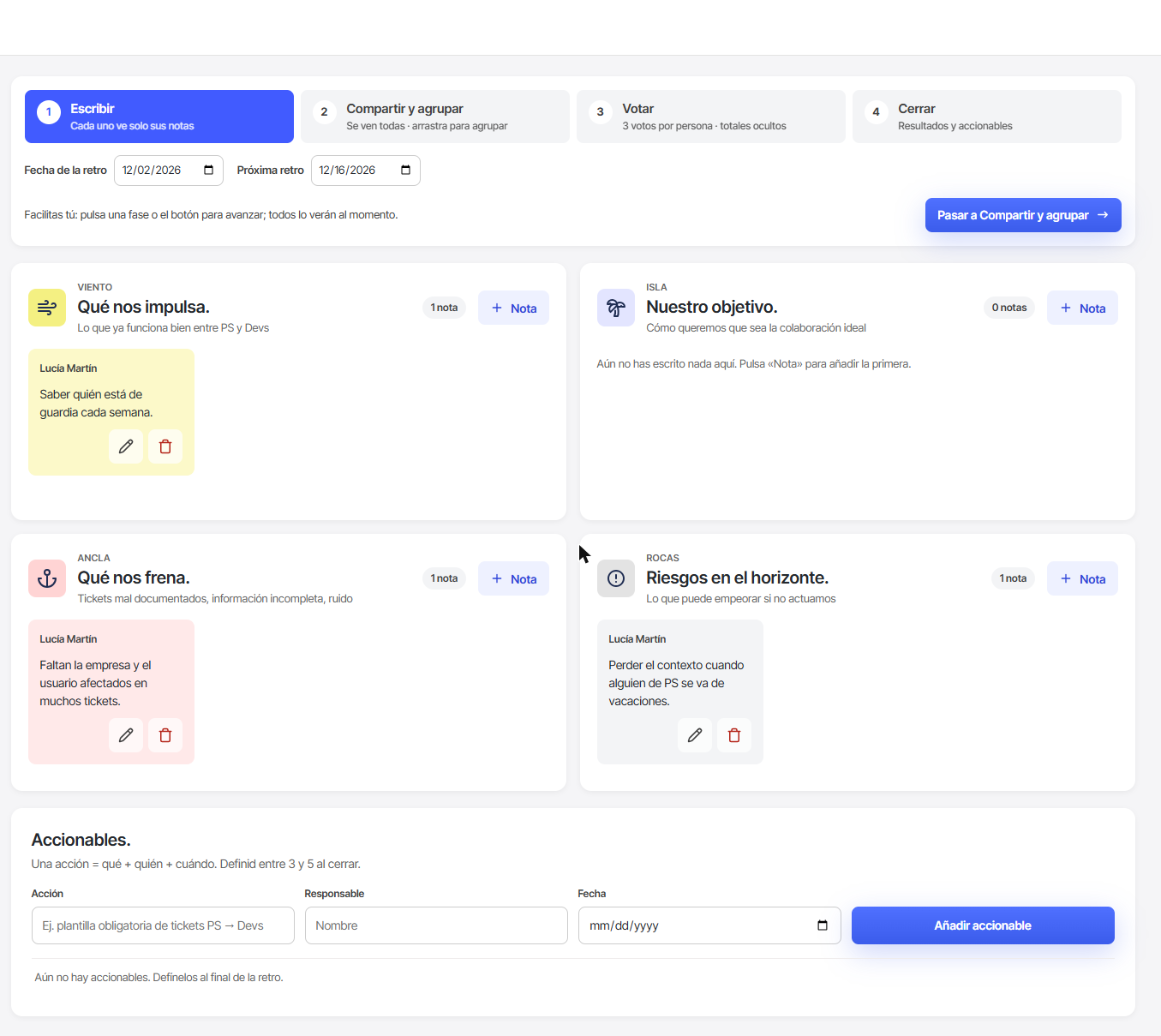
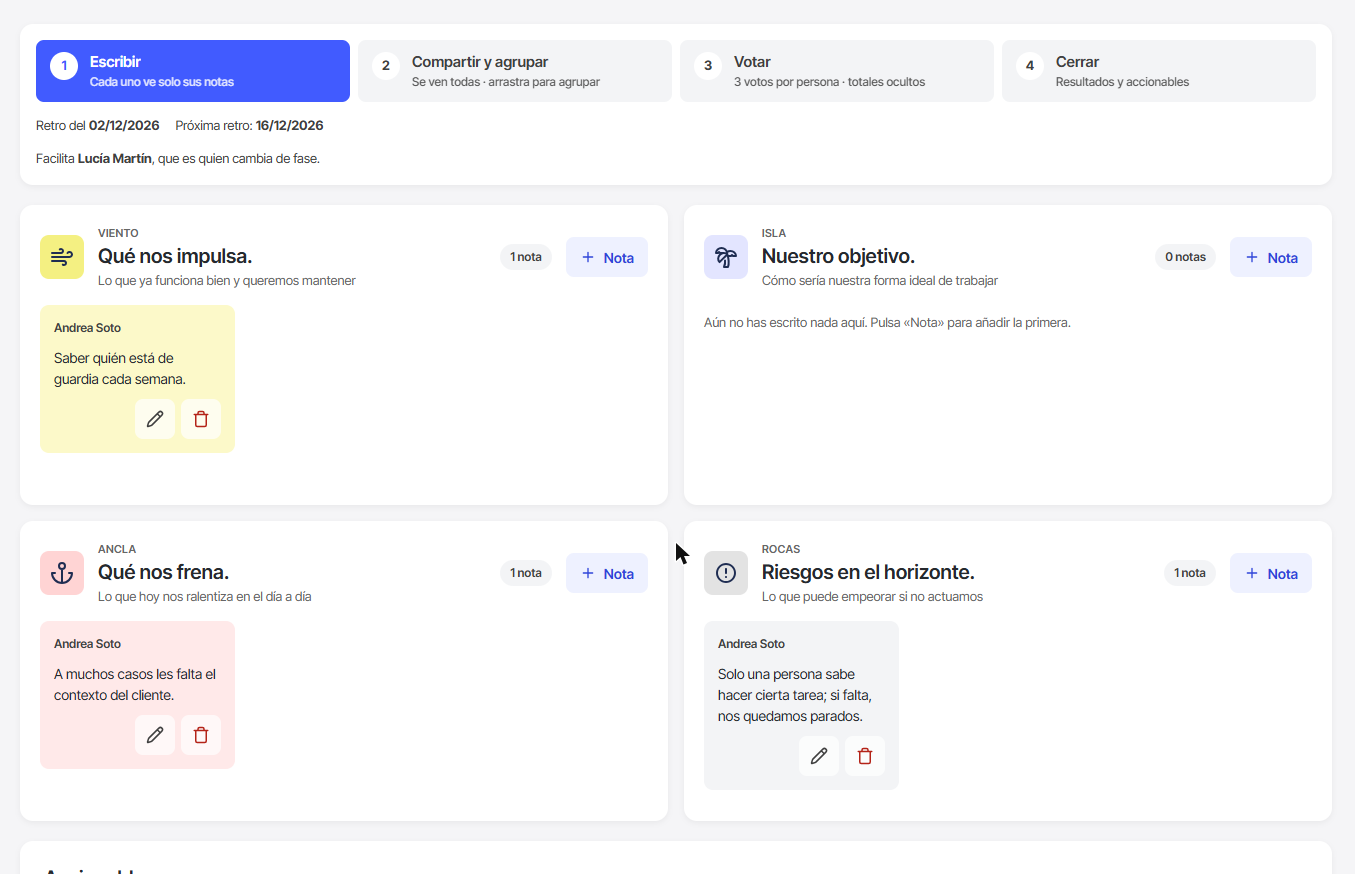
Textos genéricos para cualquier retro y capturas de participante para el vídeo
- Portada, subtítulos de zona, ejemplos y resumen sin referencias a PS ↔ Devs
- Capturas con datos de ejemplo genéricos y la vista de una participante

diff --git a/index.html b/index.html
@@ -3,7 +3,7 @@
 <head>
 <meta charset="UTF-8">
 <meta name="viewport" content="width=device-width, initial-scale=1.0">
-<title>Retro del Barco · Product Support ↔ Desarrollo</title>
+<title>Retro del Barco · Retrospectiva de equipo</title>
 <link rel="preconnect" href="https://fonts.googleapis.com">
 <link rel="preconnect" href="https://fonts.gstatic.com" crossorigin>
 <link href="https://fonts.googleapis.com/css2?family=Inter+Tight:wght@400;500;600;700&display=swap" rel="stylesheet">
@@ -342,9 +342,9 @@
   <main>
     <section class="hero">
       <div style="display:flex;flex-direction:column;gap:14px;">
-        <div class="eyebrow" style="color:var(--ink-2)">Product Support ↔ Desarrollo</div>
+        <div class="eyebrow" style="color:var(--ink-2)">Retrospectiva de equipo</div>
         <h1>Retro del Barco.</h1>
-        <p class="lead">Menos ruido entre PS y Devs, más foco en lo que llega bien documentado. Una sala, cuatro fases, en directo.</p>
+        <p class="lead">Mira atrás con tu equipo, decide qué mejorar y sal con acciones claras. Una sala, cuatro fases, en directo.</p>
       </div>
       <ol class="steps">
         <li><span class="n">01</span><b>Escribir</b><span>Cada uno anota sus ideas sin ver las de los demás.</span></li>
@@ -372,7 +372,7 @@
         <div style="display:flex;flex-direction:column;gap:12px;">
           <h2>Crea una sala.</h2>
           <label class="field">Nombre de la retro (opcional)
-            <input id="newTitle" maxlength="40" placeholder="Ej. PS-Devs diciembre">
+            <input id="newTitle" maxlength="40" placeholder="Ej. PS ↔ Soporte N1 · diciembre">
           </label>
           <div style="display:grid;grid-template-columns:repeat(auto-fit,minmax(150px,1fr));gap:12px;">
             <label class="field">Fecha de la retro
@@ -446,7 +446,7 @@
     <section class="card zone" data-zone="wind">
       <div class="zone-head">
         <div class="zone-well"><svg width="24" height="24" aria-hidden="true"><use href="#i-wind"/></svg></div>
-        <div class="zone-text"><span class="eyebrow">Viento</span><h2>Qué nos impulsa.</h2><span class="sub">Lo que ya funciona bien entre PS y Devs</span></div>
+        <div class="zone-text"><span class="eyebrow">Viento</span><h2>Qué nos impulsa.</h2><span class="sub">Lo que ya funciona bien y queremos mantener</span></div>
         <span class="zone-count" data-count="wind"></span>
         <button class="btn btn-secondary zone-add" data-act="add" data-zone="wind" aria-label="Añadir nota en Viento"><svg width="16" height="16" aria-hidden="true"><use href="#i-plus"/></svg>Nota</button>
       </div>
@@ -455,7 +455,7 @@
     <section class="card zone" data-zone="island">
       <div class="zone-head">
         <div class="zone-well"><svg width="24" height="24" aria-hidden="true"><use href="#i-palm"/></svg></div>
-        <div class="zone-text"><span class="eyebrow">Isla</span><h2>Nuestro objetivo.</h2><span class="sub">Cómo queremos que sea la colaboración ideal</span></div>
+        <div class="zone-text"><span class="eyebrow">Isla</span><h2>Nuestro objetivo.</h2><span class="sub">Cómo sería nuestra forma ideal de trabajar</span></div>
         <span class="zone-count" data-count="island"></span>
         <button class="btn btn-secondary zone-add" data-act="add" data-zone="island" aria-label="Añadir nota en Isla"><svg width="16" height="16" aria-hidden="true"><use href="#i-plus"/></svg>Nota</button>
       </div>
@@ -464,7 +464,7 @@
     <section class="card zone" data-zone="anchor">
       <div class="zone-head">
         <div class="zone-well"><svg width="24" height="24" aria-hidden="true"><use href="#i-anchor"/></svg></div>
-        <div class="zone-text"><span class="eyebrow">Ancla</span><h2>Qué nos frena.</h2><span class="sub">Tickets mal documentados, información incompleta, ruido</span></div>
+        <div class="zone-text"><span class="eyebrow">Ancla</span><h2>Qué nos frena.</h2><span class="sub">Lo que hoy nos ralentiza en el día a día</span></div>
         <span class="zone-count" data-count="anchor"></span>
         <button class="btn btn-secondary zone-add" data-act="add" data-zone="anchor" aria-label="Añadir nota en Ancla"><svg width="16" height="16" aria-hidden="true"><use href="#i-plus"/></svg>Nota</button>
       </div>
@@ -488,7 +488,7 @@
     </div>
     <div class="action-form">
       <label class="field">Acción
-        <input id="actText" maxlength="300" placeholder="Ej. plantilla obligatoria de tickets PS → Devs">
+        <input id="actText" maxlength="300" placeholder="Ej. plantilla común para documentar los casos">
       </label>
       <label class="field">Responsable
         <input id="actOwner" maxlength="80" list="peopleList" placeholder="Nombre">
@@ -1292,7 +1292,7 @@ function exportSummaryMd() {
   const groups = computeGroups(), counts = voteCounts();
   const total = g => groupIds(g).reduce((n, id) => n + (counts[id] || 0), 0);
   const showVotes = phase() === 'close';
-  let md = '# Retro del Barco · Product Support ↔ Desarrollo\n_' +
+  let md = '# Retro del Barco' + (sala && sala.title ? ' · ' + sala.title : '') + '\n_' +
     (sala && sala.retroDate ? fmtDate(sala.retroDate) : new Date().toLocaleDateString('es-ES')) +
     ' · sala ' + (sala && sala.title ? sala.title + ' (' + SALA + ')' : SALA) +
     (sala && sala.nextRetroDate ? ' · próxima retro: ' + fmtDate(sala.nextRetroDate) : '') + '_\n\n';
@@ -1358,7 +1358,7 @@ function exportForAI() {
     fechaRetro, proximaRetro,
     fechaPorDefecto: proximaRetro || addDays(fechaRetro, 14),
     instrucciones: [
-      'Eres el asistente de una retrospectiva entre Product Support y Desarrollo con el formato del barco.',
+      'Eres el asistente de una retrospectiva de equipo con el formato del barco. El contexto del equipo está en "titulo" y en las propias notas.',
       'Zonas: wind = Viento (lo que nos impulsa), island = Isla (objetivo ideal), anchor = Ancla (lo que nos frena), rocks = Rocas (riesgos).',
       '1) GRUPOS: propón grupos de notas que hablen de la misma idea o del mismo problema. Solo cuando la relación sea clara; no fuerces grupos ni agrupes por simple coincidencia de palabras.',
       '   "principal" es la nota que mejor resume el grupo (su zona será la del grupo). Normalmente agrupa dentro de la misma zona; mezcla zonas solo si es exactamente la misma idea.',
